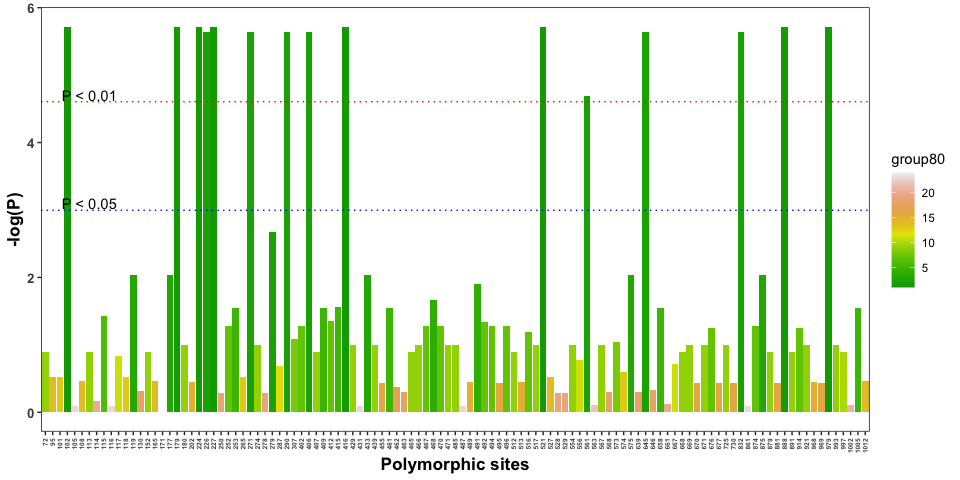
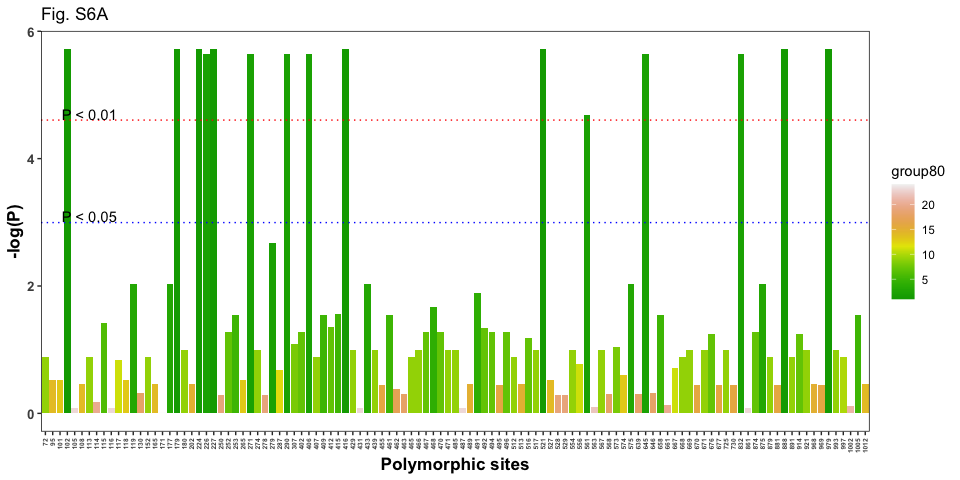
updated figure labels

diff --git a/notebooks/Epistasis_few_sites_Tegu_correction.md b/notebooks/Epistasis_few_sites_Tegu_correction.md
@@ -7,8 +7,7 @@ This script has the analyses performed in fig 5. pertaining the finding that a s
 
 **Note**: This analysis includes the corrected version of the 'Tupinambis+Q111T' construct. **Results DON'T change**.
 
-Functions
----------
+## Functions
 
 ``` r
 # imports a fasta-formatted alignment and converts it into a matrix
@@ -160,8 +159,7 @@ adj_R2 <- function(model){
 } 
 ```
 
-Import data
------------
+## Import data
 
 ``` r
 # Import alignment of extant sequences
@@ -178,8 +176,7 @@ taxa <- c("bird|Struthio_camelus_A1","frog|Leptodactylus_macrosternumS_A1","mamm
           "snake|Rhabdophis_subminiatus_A1","mammal|Chinchilla_lanigera_A1")
 ```
 
-The effect of divergence at all sites
--------------------------------------
+## A small number of sites account for a large proportion of the differences in pleiotropic effects of the same substitution on divergent ATP1A1 backgrounds (Fig 5)
 
 Relationship between percent change (when change to the same derived amino acid state) and number of amino acid differences for the entire protein.
 
@@ -222,13 +219,12 @@ ggplot(df_effect,aes(x=Distance,y=PercentDiff),color=AAState) +
     legend.key = element_rect(fill = "white"),
     legend.text = element_text(size=16),
     legend.title = element_text(size=16)) +
-  annotate("text",x=65,y=180,label=expression(paste(rho, " = -0.29, P > 0.05")))
+  annotate("text",x=65,y=180,label=expression(paste(rho, " = -0.29, P > 0.05"))) + ggtitle("Fig 5A")
 ```
 
 ![](Epistasis_few_sites_Tegu_correction_files/figure-markdown_github/allsiteseffect-1.png)
 
-ANOVA per site
---------------
+### ANOVA per site
 
 Here we will perform an ANOVA for every variable site in the wild-type sequence amongst the constructs with functional data.
 
@@ -246,14 +242,13 @@ matrix_anova <- linear_model_matrix(constructs_aln,df_effect)
 sites_to_remove <- c("V1","V2","V9","V10","V12","V14","V15","V16","V17","V19","V20","V21","V22","V23","V25","V26","V27","V28","V29","V30","V31","V32","V33","V34","V35","V36","V43","V44","V45","V46","V48","V56","V57","V62","V63","V69","V76","V80","V134","V146")
 matrix_anova <- matrix_anova[, !(colnames(matrix_anova) %in% c(sites_to_remove))]
 
-# Perform and ANOVA per site 
+# Perform ANOVA per site 
 df_anova <- anova_per_site(matrix_anova) 
 df_anova$LogP <- -log(df_anova$pvals)
 df_anova <- df_anova[!(is.na(df_anova$site)),] # remove sites that have unclear match to reference sequence
 ```
 
-Correlation amongst sites
--------------------------
+### The extent of correlation among variant sites distinguishing wild-type ATP1A1 constructs (Fig S6)
 
 Because we have relatively few construct comparisons relative to the number of variable sites, some sites have strong correlations between constructs (i.e., they show the same pattern of variation, therefore have the same signal).
 
@@ -267,7 +262,7 @@ cor_matrix <- cor(matrix_sites_only)
 cor_matrix[!lower.tri(cor_matrix)] <- 0 # Set upper diagonal to zero
 
 # Plot absolute correlation between sites to show clusters of highly colinear sites
-pheatmap(abs(cor(matrix_sites_only)),cluster_rows = T, border_color="black",fontsize_row=3,fontsize_col=3,cellheight=2,main = "Clusters of polymorphic sites")
+pheatmap(abs(cor(matrix_sites_only)),cluster_rows = T, border_color="black",fontsize_row=3,fontsize_col=3,cellheight=2,main = "Clusters of polymorphic sites (Fig S6B)")
 ```
 
 ![](Epistasis_few_sites_Tegu_correction_files/figure-markdown_github/corrsites-1.png)
@@ -437,13 +432,12 @@ ggplot(df_anova,aes(x=factor(site),y=LogP,fill=group80)) +
   geom_hline(yintercept = -log(0.01),color="red",linetype='dotted') +
   geom_hline(yintercept = -log(0.05),color="blue",linetype='dotted') +
   annotate("text",x=7,y=4.7,label="P < 0.01") + 
-  annotate("text",x=7,y=3.1,label="P < 0.05")
+  annotate("text",x=7,y=3.1,label="P < 0.05") + ggtitle("Fig. S6A")
 ```
 
 ![](Epistasis_few_sites_Tegu_correction_files/figure-markdown_github/manplot-1.png)
 
-Model selection, Part I
------------------------
+### Model selection, Part I
 
 Build increasingly nested ANOVA models (by marginal R^2) and select best model based on LRT and AIC.
 
@@ -570,15 +564,14 @@ p2 <- ggplot(df_models_g99,aes(x=group,y=r2_per_group)) + geom_line(size=1.3) + 
   xlab("Group of colinear sites") + 
   ylab(expression(paste("R"^2," of nested models"))) + geom_vline(xintercept = 4,linetype="dashed",color="red") +
   ggtitle(expression(paste("Sites grouped by ", "|",rho,"|", " >0.99"))) + 
-  annotate("text",x=20,y=0.8,label=label2a) + annotate("text",x=20,y=0.76,label=label2b)
+  annotate("text",x=27,y=0.75,label=label2a) + annotate("text",x=27,y=0.71,label=label2b)
 
-p1 + p2
+p1 + p2 + plot_annotation("Fig S6C")
 ```
 
 ![](Epistasis_few_sites_Tegu_correction_files/figure-markdown_github/modsel-1.png)
 
-The effect of divergence at the 16 sites
-----------------------------------------
+## A small number of sites account for a large proportion of the differences in pleiotropic effects of the same substitution on divergent ATP1A1 backgrounds (Fig 5)
 
 Replot the first figure but with the divergence at the 16 sites that we identified using ANOVA.
 
@@ -591,7 +584,7 @@ group_aln <- filter_alignment_by_taxa_and_sites(taxa,group_sites,aln)
 pairwise_dists_group_sites <- get_pairwise_dist(group_aln,df_effect)
 df_effect$DistanceFew <- pairwise_dists_group_sites[[1]]
 
-# Correlation
+# Correlation with 16 sites
 cor.test(df_effect$DistanceFew,df_effect$PercentDiff)
 ```
 
@@ -625,17 +618,16 @@ ggplot(df_effect,aes(x=DistanceFew,y=PercentDiff),color=AAState) +
     legend.key = element_rect(fill = "white"),
     legend.text = element_text(size=16),
     legend.title = element_text(size=16)) +
-  annotate("text",x=5,y=150,label=expression(paste(rho, " = 0.79, P < 0.01")))
+  annotate("text",x=5,y=150,label=expression(paste(rho, " = 0.79, P < 0.01"))) + ggtitle("Fig 5B")
 ```
 
-    ## `geom_smooth()` using formula 'y ~ x'
+    ## `geom_smooth()` using formula = 'y ~ x'
 
 ![](Epistasis_few_sites_Tegu_correction_files/figure-markdown_github/16siteseffect-1.png)
 
-Permutation test
-----------------
+### The extent of correlation among variant sites distinguishing wild-type ATP1A1 constructs (Fig S6)
 
-Here we are plotting a null distribution of correlations and comparing it with the observed correlation (making sure that the signal we're getting from the 16 sites is not an artifact).
+Here we are plotting a null distribution of correlations using a permutation test and comparing it with the observed correlation (making sure that the signal we're getting from the 16 sites is not an artifact).
 
 ``` r
 # Repeated analyses on datasets that are permutations of the effect sizes on the constructs. 
@@ -664,7 +656,7 @@ for(i in 1:1000){
   null_r2 <- c(null_r2,r2)
 }
 
-hist(null_r2,breaks = 30,xlab=expression(paste("R^2 on permutated effects \n(joint ANOVA model)")),main="")
+hist(null_r2,breaks = 30,xlab=expression(paste("R^2 on permutated effects \n(joint ANOVA model)")),main="Fig S6E")
 abline(v = get_R2(mod_group1.2) ,col="red")
 ```
 
@@ -678,10 +670,9 @@ print(paste("P-value of observing an R^2 >= as observed: ", p))
 
     ## [1] "P-value of observing an R^2 >= as observed:  0.009"
 
-Model selection, Part II
-------------------------
+### Model selection, Part II
 
-In the permutation section we showed that the signal we recovered from the 16 sites is unlikely to be an artifact. Here we will do a permutation test for increasingly nested models and plot the correlation between the divergence at the number of sites per group and the difference in functional effects, as a function of the cumulative number of sites per group.
+In the permutation test above we showed that the signal we recovered from the 16 sites is unlikely to be an artifact. Here we will do a permutation test for increasingly nested models and plot the correlation between the divergence at the number of sites per group and the difference in functional effects, as a function of the cumulative number of sites per group.
 
 ``` r
 ##Effects of divergence at sites in group 1 through X --> Fit correlations for each nested model
@@ -784,7 +775,7 @@ p2 <- correlation_group99 %>% dplyr::filter(.,groups %in% 1:12) %>%
   ggtitle(expression(paste("Sites grouped by ", "|",rho,"|", " >0.99")))
 
 
-p1 + p2
+p1 + p2 + plot_annotation("Fig S6D")
 ```
 
 ![](Epistasis_few_sites_Tegu_correction_files/figure-markdown_github/modesel2-1.png)
